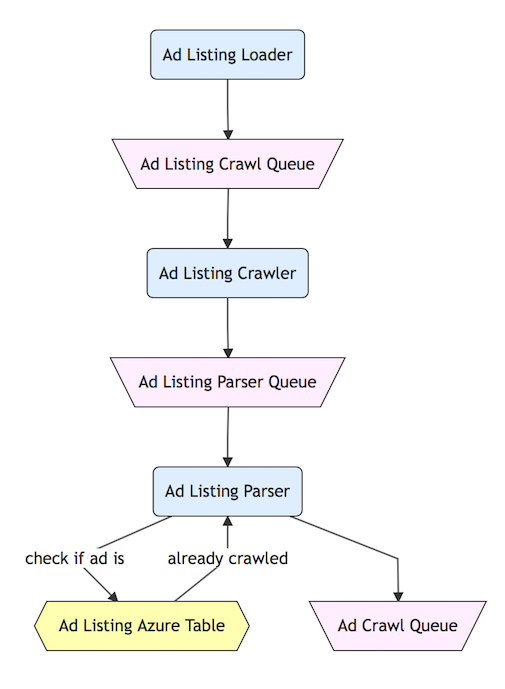
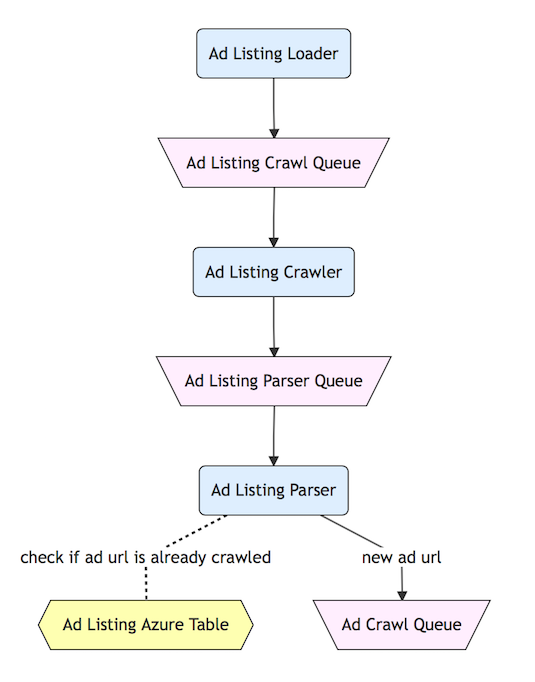
more diagrams

diff --git a/docs/design.md b/docs/design.md
@@ -16,9 +16,9 @@ The site map parser takes jobs from the sitemap parse queue, extracts ad listing
 
 ## Stage 2: Ad Listings
 
-Ad listings is all about collecting urls for individual ads. It puts the ad urls on the ad-crawl queue to start the next stage.
+Ad listings is all about collecting urls for individual ads. It puts the ad urls on the ad-crawl queue to start the next stage. We also will do depth crawling in this stage.
 
-Similar to sitmapping this stage contains a loader, crawler and parser, however this ends in a queue instead of a crawl.
+Similar to sitemapping this stage contains a loader, crawler and parser, however this ends in a queue instead of a crawl.
 
 ![Ad Listings](./imgs/adlistingarch.png)
 
@@ -28,6 +28,14 @@ The ad listing crawler takes jobs from the adlisting crawl queue, downloads the 
 
 The ad listing parser then extracts the individual ad urls. It then checks the azure ad table to see if the ad url has alredy been crawled.
 
+This is also how we do depth crawling. Depth crawling is where we go 'deeper' into the site to collect more ads. Typically on a 'craglist' style site that means that we'd go to the next page to find more ads. We do depth crawling when there's more than 70% new ads on the page. This works well in practice because more sites are slow moving (at least on an hourly basis).
+
 If we've not crawled the ad then it will put the ad on the ad crawl queue for the next stage.
+
+## Stage 3: Ad Crawling
+
+Ad Crawlers are all about collecting and processing the ad data. It starts with the ad crawl queue and ends with the processing queue. 
+
+![Ads](./imgs/adarch.png)
 
 
